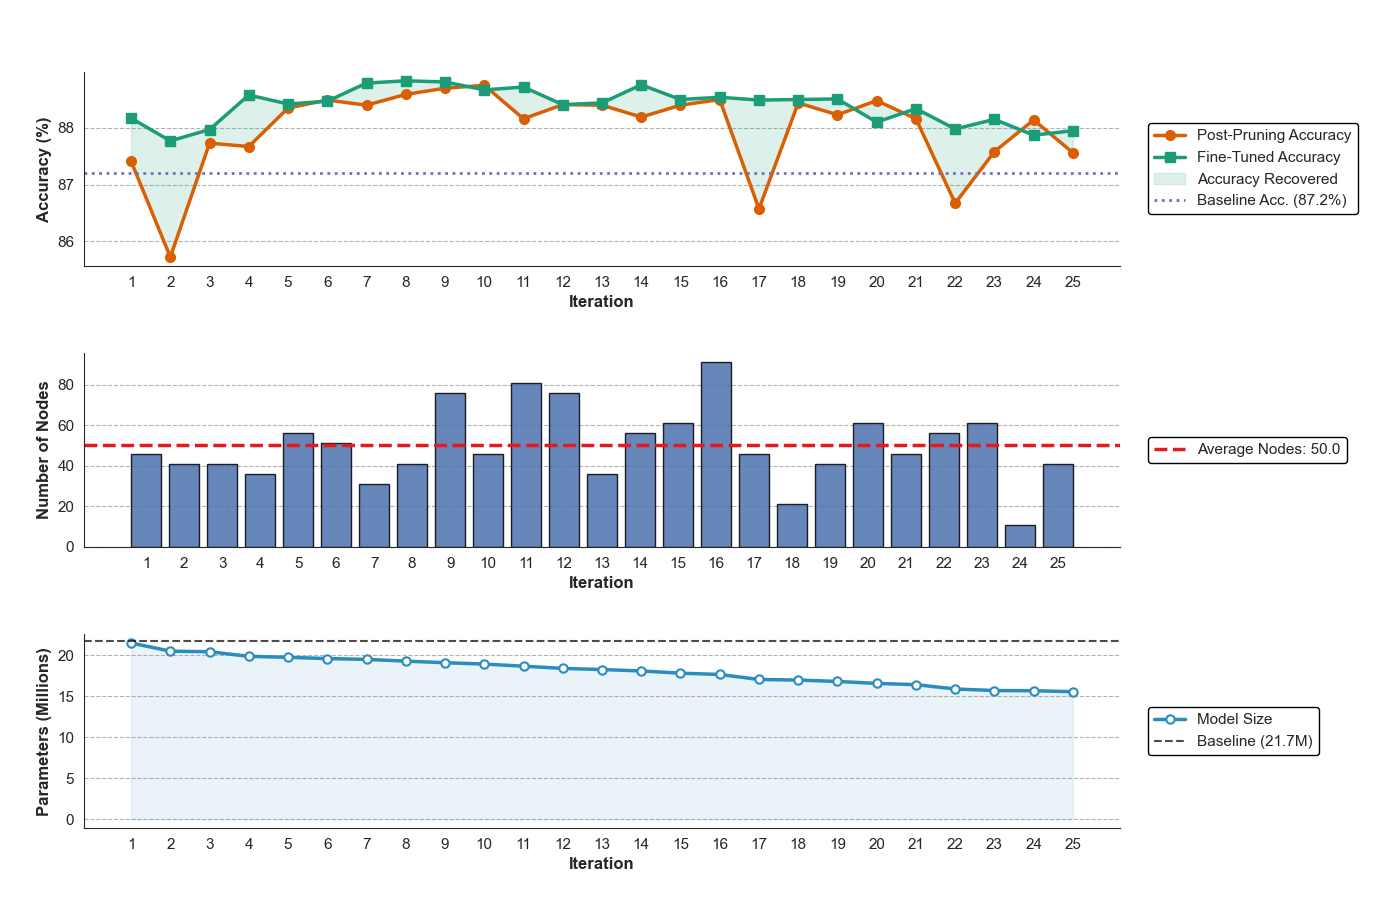
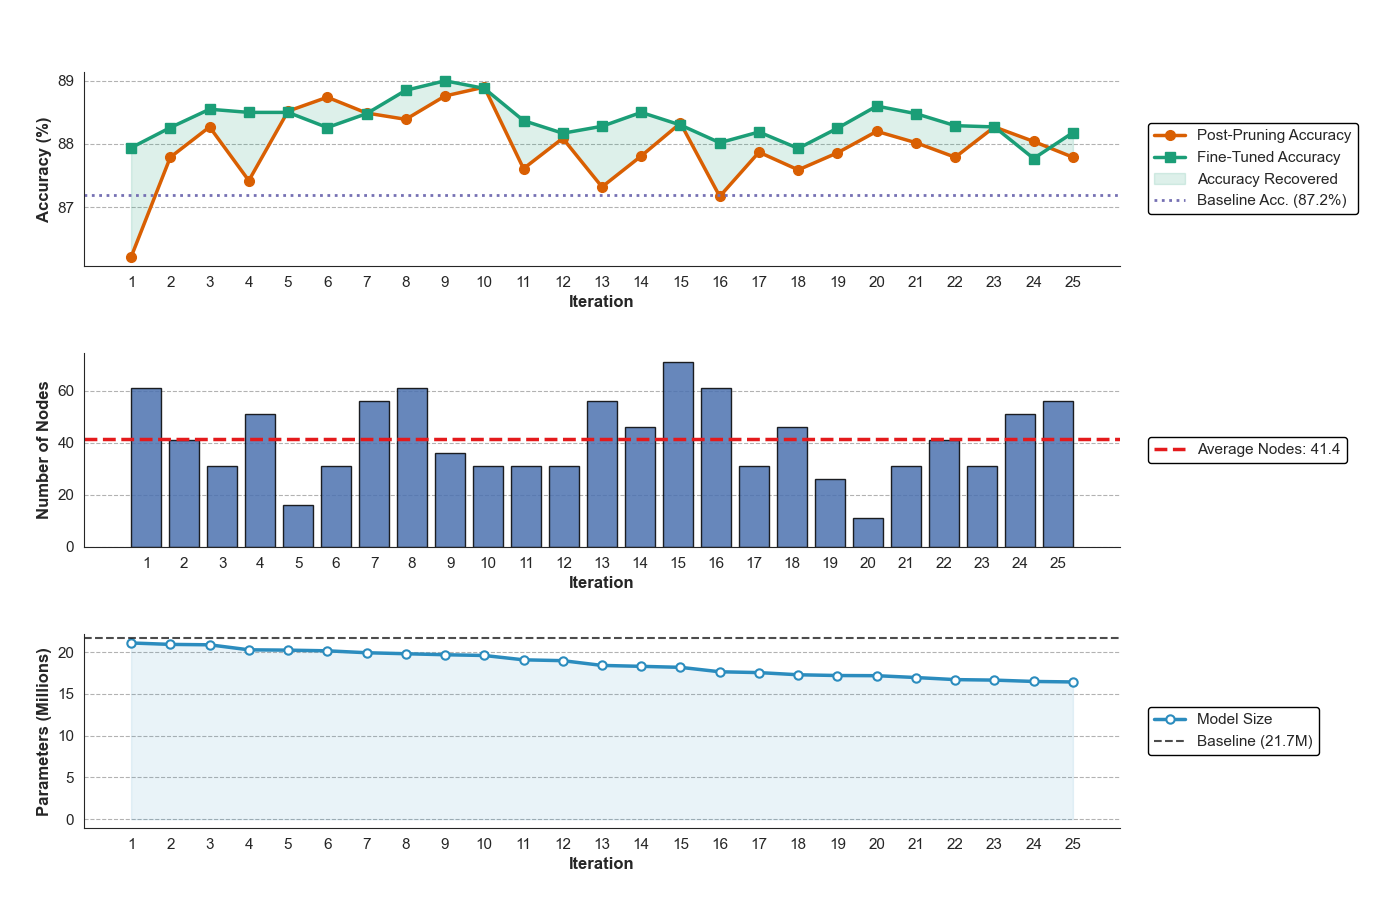
updated_result

diff --git a/capitoli/ch4.tex b/capitoli/ch4.tex
@@ -177,7 +177,7 @@ attribuito al contributo dei parametri.
     \caption{Nella tabella sono presentati i risultati comparativi utilizzando il \textit{ViT-Small} e il dataset \textit{CIFAR100}, in particolare vengono evidenziati i valori delle metriche e le variazioni rispetto al modello \textit{Baseline}.}
     \label{tab:risultati-cifar100}
 \end{table}
-Questi risultati dimostrano chiaramente un eccesso di parametri del modello, che infatti possono essere rimossi senza intaccare in maniera significativa le prestazioni. Il framework è riuscito a comprimere il modello di circa il \textbf{27\%}, con una perdita di accuratezza inferiore di circa lo \textbf{0.5\%}, e un aumento del throughput superiore al \textbf{23\%}. L'aggiunta della \textit{Knowledge Distillation} ha permesso di recuperare parte dell'accuratezza perduta durante la fase di compressione, con un risultato superiore di circa \textbf{0.3\%} rispetto al test senza KD, a fronte di un numero di parametri molto simile.
+Questi risultati dimostrano chiaramente un eccesso di parametri del modello, che infatti possono essere rimossi senza intaccare in maniera significativa le prestazioni. Il framework è riuscito a comprimere il modello di circa il \textbf{27\%}, con una perdita di accuratezza inferiore di circa lo \textbf{0.5\%}, e un aumento del throughput superiore al \textbf{23\%}. L'aggiunta della \textit{Knowledge Distillation} ha permesso una maggiore compressione del modello, con una accuratezza significativamente superiore (quasi 1.0\% in più) rispetto al test senza KD.
 
 \subsection{Test sul dataset ImageNet-1K}
 In questo caso il modello \textit{ViT-Small} ha raggiunto i 22 Mln di parametri
@@ -207,10 +207,9 @@ a \textbf{0.005}, la \textbf{funzione obiettivo} con \textbf{$\lambda$} pari a
     \caption{Nella tabella sono presentati i risultati comparativi utilizzando il \textit{ViT-Small} e il dataset \textit{ImageNet-1K}, in particolare vengono evidenziati i valori delle metriche e le variazioni rispetto al modello \textit{Baseline}.}
     \label{tab:risultati-ImageNet}
 \end{table}
-Come è possibile notare, i risultati ottenuti su \textit{ImageNet-1K} rispecchiano la maggiore complessità del dataset, con una diminuzione più marcata dell'accuratezza, a fronte di una minore percentuale di compressione. Nonostante ciò, il framework, con l'ausilio della \textit{Knowledge Distillation}, ha portato ad un risultato molto interessante, con una perdita di accuratezza inferiore allo \textbf{0.1\%}, a fronte di una compressione superiore al \textbf{22\%}, e un aumento del throughput superiore al \textbf{15\%}. \par
+Come è possibile notare, i risultati ottenuti su \textit{ImageNet-1K} rispecchiano la maggiore complessità del dataset, con una diminuzione più marcata dell'accuratezza, a fronte di una minore percentuale di compressione. Nonostante ciò, il framework, con l'ausilio della \textit{Knowledge Distillation}, ha portato ad un risultato importante, con una perdita di accuratezza inferiore allo \textbf{0.1\%}, a fronte di una compressione superiore al \textbf{22\%}, e un aumento del throughput superiore al \textbf{15\%}. \par
 Questa caratteristica della KD, ovvero quella di agevolare il taglio di un
-numero maggiore di parametri, è stata osservata ripetutamente durante i test,
-ed è giustificata dalla natura iterativa del framework. Agendo come forte
+numero maggiore di parametri, osservata anche nel caso del test precedente \ref{tab:risultati-cifar100}, è giustificata dalla natura iterativa del framework. Agendo come forte
 regolarizzatore durante le fasi di fine-tuning intermedie, la KD permette al
 modello di mantenere le prestazioni più elevate ed uno stato di convergenza più
 solido. Ciò permette alle iterazioni successive di compressione di sfruttare al
@@ -220,7 +219,7 @@ modello allo stato di convergenza, come discusso nella sezione
 Notare inoltre che la compressione inferiore ottenuta rispetto al test su
 CIFAR-100, sarebbe facilmente colmabile aumentando il numero di iterazioni a
 disposizione del framework. Nel caso in esame è stato scelto di mantenere
-questo numero uguale per entrambi i dataset, in maniera tale da agevolare un
+quest'ultimo uguale per entrambi i dataset, in maniera tale da agevolare un
 confronto, ma soprattutto per dimostrare come l'algoritmo di ricerca adottato
 sia sensibile e capace di adattarsi alla complessità dei dati, selezionando in
 maniera più conservativa le azioni di \textit{pruning} da eseguire, al fine di
@@ -371,12 +370,9 @@ l'ausilio della \textit{distillation} (KD), il framework è riuscito a ridurre
 di oltre il \textbf{26\%} il numero di parametri con una perdita di
 \textit{accuracy} trascurabile (0.4\%). Ma il risultato di maggiore interesse è
 sicuramente il secondo, ottenuto nelle stesse condizioni del precendente e con
-l'aggiunta della KD, il quale ha portato ad oltre il \textbf{28\%} di
-compressione e un leggero \textbf{guadagno} di \textit{accuracy} (0.3\%).
-Quanto osservato conferma quindi da un lato come l'utilizzo della distillazione
-agevoli il taglio di parametri, permettendo una compressione maggiore (trend
-già osservato nella Sezione \ref{section:test}), e dall'altro permetta di
-mantenere più elevate le prestazioni del modello in modo significativo. \par
+l'aggiunta della KD, il quale ha portato a quasi il \textbf{25\%} di
+compressione e un \textbf{guadagno} significativo di \textit{accuracy} (0.8\%).
+Quanto osservato conferma quindi da un lato come l'utilizzo della distillazione permetta di mantenere più elevate le prestazioni del modello. \par
 Confrontando questi risultati con quelli ottenuti dal modello ViT-Small, una
 ulteriore osservazione è che in questo caso i tagli di parametri si traducono
 in un maggiore incremento nel \textbf{throughput} e decremento di \textbf{latenza}. La
@@ -392,11 +388,9 @@ un \textit{layer}, portando così ai risultati osservati in questo test. \par
 Infine, dalla Tabella \ref{tab:risultati-cifar100-deit} è possibile
 notare una discrepanza tra gli incrementi in velocità dei due modelli
 risultanti. Il modello ottenuto utilizzando la
-\textit{distillation} è maggiormente compresso ma la sua velocità risulta
-inferiore all'altro, che ha mantenuto un numero di parametri leggermente
-superiore. La spiegazione risiede nel numero di MHSA interamente eliminate, che
-nel caso del modello con più parametri è pari a 2, mentre nell'altro si limita
-ad 1. Si noti inoltre che questa differenza si registra a causa dei fattori di
+\textit{distillation}, nonostante una simile compressione, ha un'incremento in velocità di molto inferiore all'altro. La spiegazione risiede nel numero di MHSA interamente eliminate, che
+nel caso del modello senza KD è pari a 2, mentre nell'altro si limita
+ad 1. Si noti inoltre che questa discrepanza si registra a causa dei fattori di
 compressione molto simili, e non si osserverebbe nel caso di modelli con una
 maggiore differenza in termini di numero di parametri.
 \subsection{Test su dataset ImageNet-1K}
@@ -415,10 +409,6 @@ maggiore differenza in termini di numero di parametri.
     \caption{Illustrazione delle percentuali di dimensioni tagliate nei vari blocchi \textit{Encoder} del DeiT-Small, nel caso del test sul dataset CIFAR100 con l'utilizzo di \textit{Knowledge Distillation}.}
     \label{figure:deit_s_cifar_dims}
 \end{figure}
-
-\section{Analisi dell'algoritmo di ricerca}
-Fare test con la loss nella funzione obiettivo, poi un altro senza la soglia
-nel bound e con vari valori.
 
 \section{Ablazione}
 Al fine di verificare la bontà del metodo sono stati effettuati dei test per
@@ -486,10 +476,10 @@ processo di ricerca, che evita di selezionare quegli stati, la cui selezione
 casuale dei tagli, ha danneggiato gravemente il modello.
 
 \subsection{Il parametro $\lambda$ della funzione obiettivo}
+Considerando la funzione obiettivo definita nella Sezione \ref{section:search-form} è possibile notare la presenza di un parametro che bilancia il peso attribuito al fattore di compressione. Agendo su tale parametro è possibile modificare il comportamento dell'algoritmo di ricerca. In particolare all'aumentare del valore di $\lambda$ verranno considerati più facilmente stati la cui accuratezza è minore ma presentano una maggiore riduzione del numero di parametri. Per dimostrare il contributo di questo parametro sono stati eseguiti dei test sul modello ViT-Small, utilizzando il dataset CIFAR100 (la configurazione è la medesima rispetto ai test \ref{section:test}, senza l'ausilio della \textit{Knowledge Distillation}) i cui risultati sono mostrati in Tabella \ref{tab:risultati-lambda}. 
 
 \begin{table}[H]
     \centering
-    \label{tab:risultati-lambda}
     \footnotesize
     \setlength{\tabcolsep}{3pt}
     \begin{tabular}{@{} l r r r r r @{}}
@@ -497,36 +487,22 @@ casuale dei tagli, ha danneggiato gravemente il modello.
         \textbf{Modello}              & \multicolumn{1}{c}{\textbf{Parametri (M)}} & \multicolumn{1}{c}{\textbf{Top-1 Acc. (\%)}} & \multicolumn{1}{c}{\textbf{GFLOPs}} & \multicolumn{1}{c}{\textbf{Throughput}} & \multicolumn{1}{c}{\textbf{Latency}} \\ \midrule
         ViT-Small                     & 21.70 \hphantom{(-00.0\%)}                 & 90.42\% \hphantom{(-0.00\%)}                 & 4.60 \hphantom{(-00.00\%)}          & 1137.5 \hphantom{(+00.00\%)}            & 112.5 \hphantom{(-00.00\%)}          \\
         \midrule
-        \textbf{ViT-S Pruned $\lambda=1.0$} & 17.59 (-19.0\%)                            & 88.92\% (-1.50\%)                            & 3.74 (-18.67\%)                     & 1308.6 (+15.04\%)                               & 97.8 (-13.06\%)                           \\
-        \midrule
         \textbf{ViT-S Pruned $\lambda=0.5$}  & 18.89 (-13.0\%)                            & 89.84\% (-0.58\%)                            & 4.00 (-13.13\%)                     & 1256.4 (+10.45\%)                       & 101.9 (-9.42\%)                      \\
+        \midrule
+        \textbf{ViT-S Pruned $\lambda=1.0$} & 17.59 (-19.0\%)                            & 88.92\% (-1.50\%)                            & 3.74 (-18.67\%)                     & 1308.6 (+15.04\%)                               & 97.8 (-13.06\%)                           \\
         \midrule
         \textbf{ViT-S Pruned $\lambda=1.5$}  & 15.86 (-26.9\%)                            & 86.82\% (-3.60\%)                            & 3.43 (-25.47\%)                     & 1406.3 (+23.63\%)                       & 91.0 (-19.11\%)                     \\
         \bottomrule
     \end{tabular}
     \vspace{10pt}
     \caption{Nella tabella sono presentati i risultati dell'applicazione del \textit{framework} di compressione al variare del valore di $\lambda$, ovvero il peso della componente di compressione nella funzione obiettivo, sul dataset \textit{CIFAR100} e sul modello \textit{ViT-Small}.}
+    \label{tab:risultati-lambda}
 \end{table}
 
-\subsection{Comparazione con l'approccio Greedy}
-\begin{table}[H]
-    \centering
-    \label{tab:risultati-greedy}
-    \footnotesize
-    \setlength{\tabcolsep}{3pt}
-    \begin{tabular}{@{} l r r r r r @{}}
-        \toprule
-        \textbf{Modello}              & \multicolumn{1}{c}{\textbf{Parametri (M)}} & \multicolumn{1}{c}{\textbf{Top-1 Acc. (\%)}} & \multicolumn{1}{c}{\textbf{GFLOPs}} & \multicolumn{1}{c}{\textbf{Throughput}} & \multicolumn{1}{c}{\textbf{Latency}} \\ \midrule
-        ViT-Small                     & 21.70 \hphantom{(-00.0\%)}                 & 90.42\% \hphantom{(-0.00\%)}                 & 4.60 \hphantom{(-00.00\%)}          & 1137.5 \hphantom{(+00.00\%)}            & 112.5 \hphantom{(-00.00\%)}          \\
-        \midrule
-        \textbf{ViT-S Pruned} & 17.59 (-19.0\%)                            & 88.92\% (-1.50\%)                            & 3.74 (-18.67\%)                     & 1308.6 (+15.04\%)                               & 97.8 (-13.06\%)                           \\
-        \midrule
-        \textbf{ViT-S Greedy}  & 16.94 (-21.9\%)                            & 88.44\% (-1.98\%)                            & 3.59 (-21.96\%)                     & 1322.3 (+16.25\%)                       & 96.8 (-13.96\%)                      \\
-        \bottomrule
-    \end{tabular}
-    \vspace{10pt}
-    \caption{Nella tabella sono presentati i risultati dell'applicazione del \textit{framework} di compressione al variare del valore di $\lambda$, ovvero il peso della componente di compressione nella funzione obiettivo, sul dataset \textit{CIFAR100} e sul modello \textit{ViT-Small}.}
-\end{table}
+Quanto osservato in Tabella \ref{tab:risultati-lambda} risulta in accordo con le aspettative. I tre valori testati producono modelli nettamente differenti:
+\begin{itemize}
+    \item Utilizzando $\lambda=0.5$ l'algoritmo di ricerca preserva efficacemente l'accuratezza, ma questo porta ad una diminuzione
+\end{itemize}
 
 \section{Tabella comparativa ImageNet-1K - DeiT-B}
 \begin{table}[H]

diff --git a/capitoli/introduzione.tex b/capitoli/introduzione.tex
@@ -10,7 +10,7 @@ Quotidianamente vengono rilasciati modelli sempre più capaci e versatili; tutta
 Come è possibile notare dalla Figura \ref{figure:params_plot}, il numero di parametri dei modelli di intelligenza artificiale è cresciuto esponenzialmente negli ultimi anni, passando da poche decine di milioni a centinaia di miliardi, fino a superare la soglia del trilione. Risulta quindi evidente che le risorse, non esclusivamente computazionali ma anche energetiche, necessarie per l'addestramento e l'inferenza di reti di tale portata siano proibitive e alla portata di un ristretto numero di grandi aziende tecnologiche. \par
 \begin{figure}[H]
     \centering
-    \includegraphics[width=0.6\textwidth]{images/introduzione/edge.png}
+    \includegraphics[width=0.5\textwidth]{images/introduzione/edge.png}
     \caption{Differenza tra \textit{Cloud AI} e \textit{Edge AI}. Fonte: \url{https://www.cardinalpeak.com/blog/at-the-edge-vs-in-the-cloud-artificial-intelligence-and-machine-learning}}
     \label{figure:edge_cloud}
 \end{figure}
@@ -24,6 +24,6 @@ Per tali ragioni, la ricerca si è recentemente concentrata sia sull'introduzion
 \end{figure}
 Tecniche come la quantizzazione dei pesi \cite{jacob2017quantizationtrainingneuralnetworks}, ormai standard per i \textit{Large Language Model} (LLM), o l'adozione di architetture \textit{Mixture of Experts} (MoE, Figura \ref{figure:moe}) \cite{jiang2024mixtral}, che attivano selettivamente solo un sottoinsieme di parametri, hanno garantito importanti passi avanti e godono di larga diffusione. Anche dal punto di vista hardware sono stati effettuati numerosi passi avanti. L'industria dei semiconduttori ha progettato architetture specificamente ottimizzate per i carichi di lavoro legati all'Intelligenza Artificiale. Negli ultimi anni si è assistito, ad esempio, all'introduzione dei \textit{Tensor Core} \cite{TensorCores} all'interno delle moderne GPU, progettati per massimizzare l'efficienza delle operazioni di moltiplicazione e somma tra tensori (MAC), fondamentali per l'inferenza delle reti neurali. Parallelamente, sono nati acceleratori dedicati, come le \textit{Tensor Processing Unit} (TPU) per le grandi infrastrutture \textit{cloud}, e le \textit{Neural Processing Unit} (NPU), ormai sempre più integrate nell'hardware moderno. Tuttavia, nonostante i notevoli progressi, la sfida di rendere i modelli di intelligenza artificiale utilizzabili su hardware \textit{consumer}, o ancor di più su dispositivi \textit{Edge}, rimane aperta. \par
 A partire da queste considerazioni, l'obiettivo di questa tesi è quello di contribuire alla ricerca di strategie di compressione dei modelli neurali, esplorate a fondo per quanto riguarda le reti convoluzionali, ma ancora poco studiate per quanto riguarda le architetture \textit{Transformer}. Nella trattazione di questo argomento ci si concentrerà sui modelli \textit{Vision Transformer} \cite{dosovitskiy2021imageworth16x16words} (ViT), che rappresentano ad oggi lo stato dell'arte per quanto riguarda l'elaborazione e l'estrazione di \textit{feature} dalle immagini, e sono particolarmente diffusi e adottati come \textit{backbone} per svariati domini applicativi, come il riconoscimento di oggetti \cite{carion2020endtoendobjectdetectiontransformers,li2022exploringplainvisiontransformer}, task multimodali \cite{radford2021learningtransferablevisualmodels,zhai2023sigmoidlosslanguageimage} e la segmentazione \cite{kirillov2023segment}. \par
-In particolare, a partire dalle idee alla base della ricerca automatica di architetture (\textit{Neural Architecture Search}), viene proposto un framework di compressione che, dato un modello ViT pre-addestrato, specializzato su un dominio specifico, è in grado di identificare e rimuovere i parametri meno rilevanti (\textit{pruning}), in maniera strutturata, così da poter ricostruire il modello in una sua versione ridotta, maggiormente efficiente, ma in grado di mantenere prestazioni comparabili a quelle del modello originale.
-Il contributo principale di questo lavoro consiste nel non utilizzare, come molte delle tecniche di \textit{pruning}, una strategia basata su soglie e approcci di tipo \textit{greedy}, bensì adottare un processo di ottimizzazione e di ricerca, che permette di selezionare dinamicamente le migliori azioni di taglio da attuare sul modello. Notare come questo framework, nonostante sia stato testato su modelli \textit{Vision Transformer}, sia generalizzabile anche ad altre architetture \textit{Transformer}, ad esempio quelle utilizzate per l'elaborazione del linguaggio naturale. Potrebbe essere esteso ai modelli BERT \cite{devlin2019bertpretrainingdeepbidirectional}, ma anche ai modelli di maggiori dimensioni, come i LLM, in quanto le architetture alla base di questi modelli condividono la stessa struttura. Anche per quanto riguarda i domini applicativi, sebbene la trattazione si concentri su task di classificazione di immagini, la strategia proposta è estendibile ad altri \textit{task}, a patto di modificare opportunamente le funzioni di perdita e obiettivo. \par
+In particolare, a partire dalle idee alla base della ricerca automatica di architetture (\textit{Neural Architecture Search}), viene proposto un framework di compressione che, dato un modello ViT pre-addestrato, specializzato su un dominio specifico, è in grado di identificare e rimuovere i parametri meno rilevanti (\textit{pruning}), in maniera strutturata, così da poter ricostruire il modello in una sua versione ridotta, maggiormente efficiente, ma in grado di mantenere prestazioni comparabili a quelle del modello originale. \par
+Il contributo principale di questo lavoro risiede nello sviluppo di un problema di ottimizzazione, volto a identificare le strategie di compressione ottimali per architetture \textit{Vision Transformer}, e della sua soluzione tramite un algoritmo di ricerca \textit{Branch and Bound}. Tale processo permette di selezionare le azioni di \textit{pruning} più efficaci, bilanciando la riduzione dei parametri con il mantenimento delle capacità predittive del modello. A supporto di questo, introduciamo una metrica di importanza (secondo contributo) deputata, a fronte della selezione di una specifica azione di taglio, alla determinazione dei parametri candidati per il \textit{pruing}. Notare come questo framework, nonostante sia stato testato su modelli \textit{Vision Transformer}, sia generalizzabile anche ad altre architetture \textit{Transformer}, ad esempio quelle utilizzate per l'elaborazione del linguaggio naturale. Potrebbe essere esteso ai modelli BERT \cite{devlin2019bertpretrainingdeepbidirectional}, ma anche ai modelli di maggiori dimensioni, come i LLM, in quanto le architetture alla base di questi modelli condividono la stessa struttura. Anche per quanto riguarda i domini applicativi, sebbene la trattazione si concentri su task di classificazione di immagini, la strategia proposta è estendibile ad altri \textit{task}, a patto di modificare opportunamente le funzioni di perdita e obiettivo. \par
 Il presente elaborato è strutturato come segue. Nel \textbf{Capitolo 1} viene presentato lo stato dell'arte, analizzando le principali architetture efficienti basate su \textit{Vision Transformer} e le più diffuse tecniche di compressione. Il \textbf{Capitolo 2} introduce la formulazione matematica del problema di ottimizzazione, descrivendo la modellazione dello spazio di ricerca tramite l'algoritmo \textit{Branch and Bound} e la derivazione formale del criterio di importanza dei parametri. Nel \textbf{Capitolo 3} viene dettagliata l'implementazione pratica del \textit{framework} di compressione iterativo e gli algoritmi implementati. Il \textbf{Capitolo 4} è dedicato alla discussione dei risultati sperimentali, illustrando i test condotti. Chiudono l'elaborato le \textbf{Conclusioni}, nelle quali vengono presentati gli obiettivi raggiunti e delineati i possibili sviluppi futuri.

diff --git a/capitoli/ch2.tex b/capitoli/ch2.tex
@@ -25,6 +25,7 @@ azioni di \textit{pruning} predefinite. L'algoritmo \textit{Branch and Bound} af
 Nella prossima sezione sarà esposta nel dettaglio la formulazione matematica proposta.\newline
 
 \section{Formulazione della ricerca}
+\label{section:search-form}
 Dato un modello ViT $M$ con parametri $\theta$, definiamo un processo iterativo
 di pruning. Per ogni iterazione viene eseguita una ricerca di tipo
 \textbf{Depth First a profondità limitata}. Durante la ricerca verranno